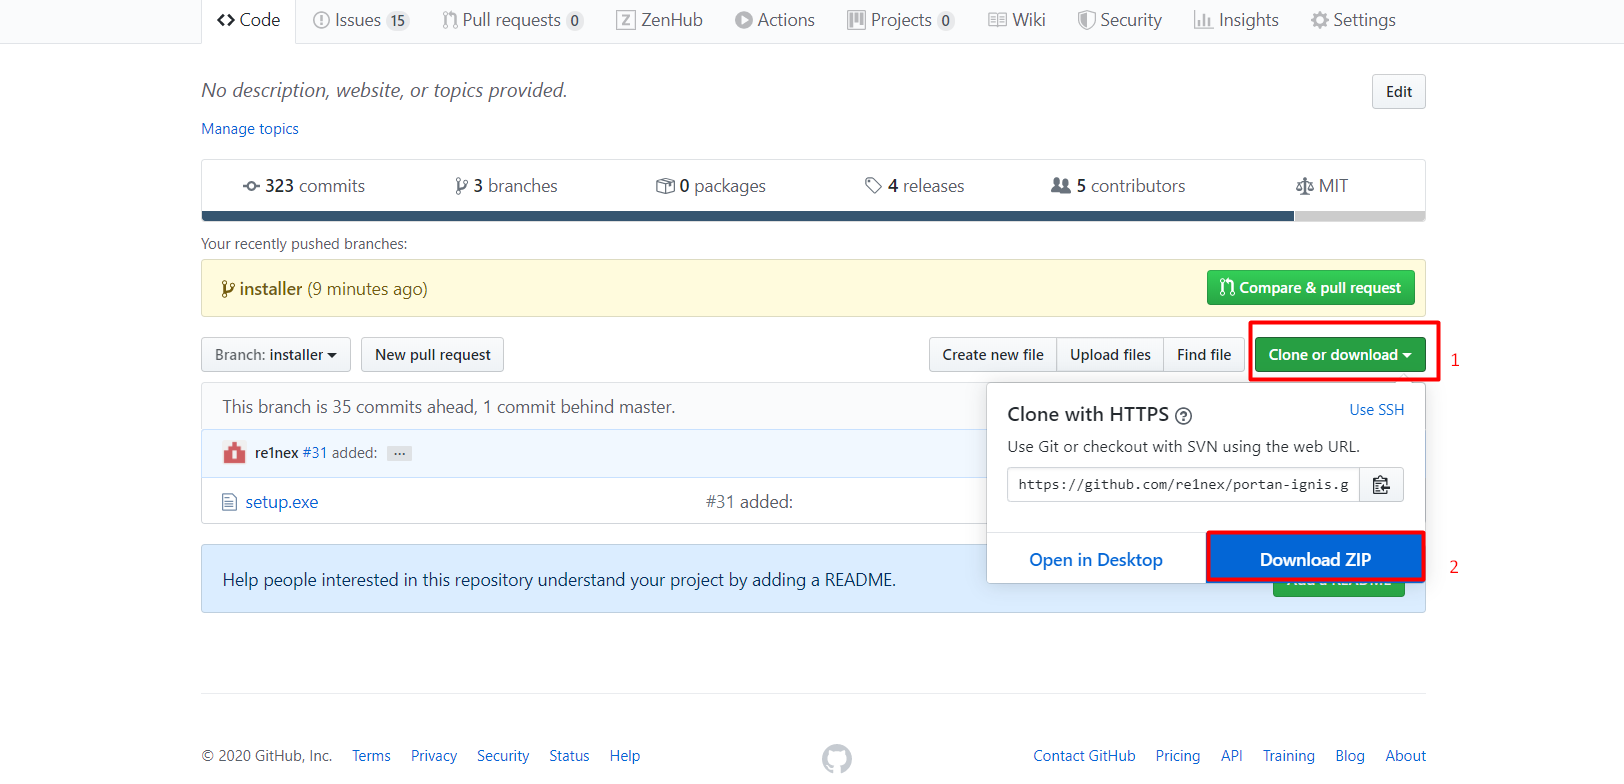
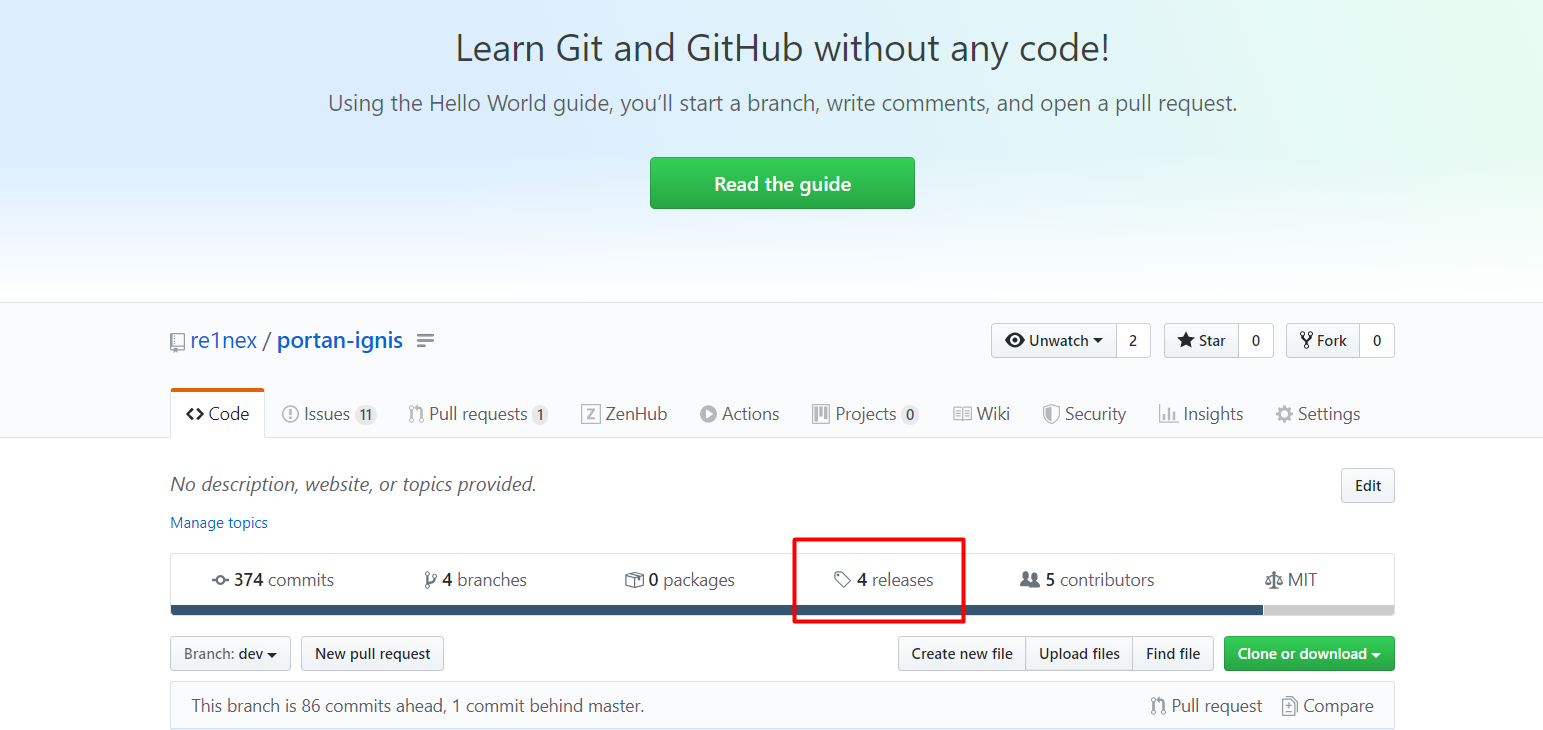
#31 fixed: - change branch to releases

diff --git a/README.md b/README.md
@@ -40,14 +40,11 @@ Portan Ignis is a puzzle-platformer adventure game developed for PC. The game ta
 ![alt text](https://github.com/re1nex/portan-ignis/blob/dev/instruction/run.png)
 
 # Установка для пользователей
-1. Откройте ветку installer
-
-![alt text](https://github.com/re1nex/portan-ignis/blob/dev/instruction/openBranch.png)
-
-2. Скачайте архив с установщиком из репозитория, для этого нужно нажать на кнопку Clone or download, затем Download ZIP
+1. Откройте вкладку [releases](https://github.com/re1nex/portan-ignis/releases)
 
 ![alt text](https://github.com/re1nex/portan-ignis/blob/dev/instruction/download.png)
 
+2. Скачайте установщик из последнего релиза
 3. Распакуйте скачанный архив и запустите setup.exe, лежащий внутри
 4. Следуйте инструкциям внутри установщика
 5. Для запуска игры можете использовать ярлык на рабочем столе (если он был создан) или Portan Ignis.exe в выбранной для установки папке 
